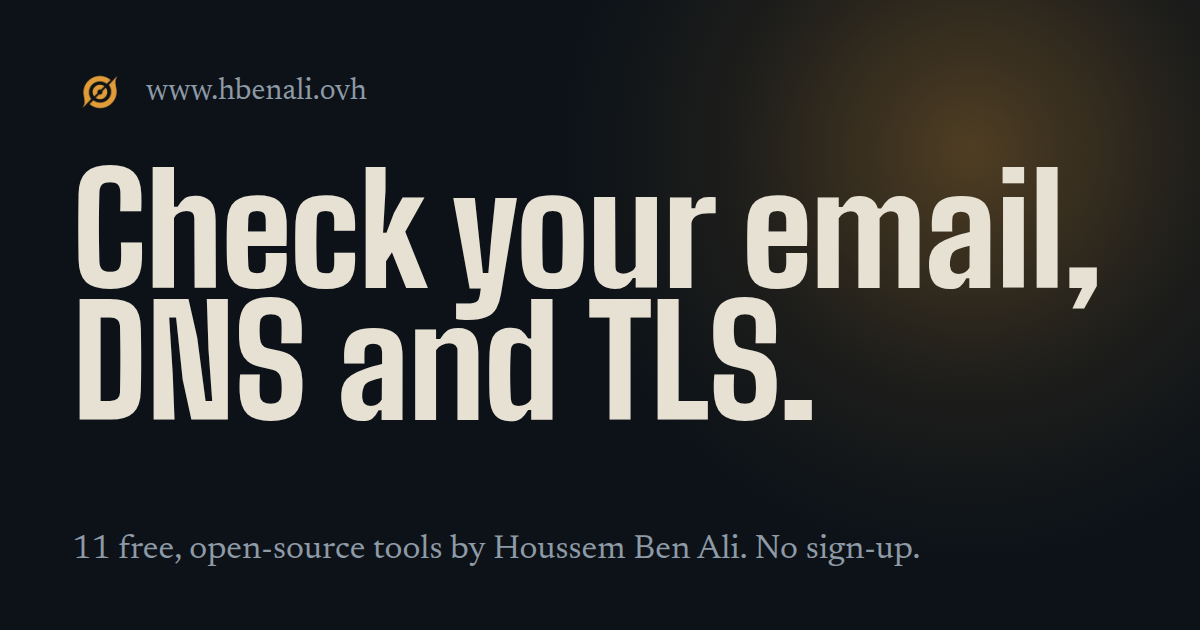
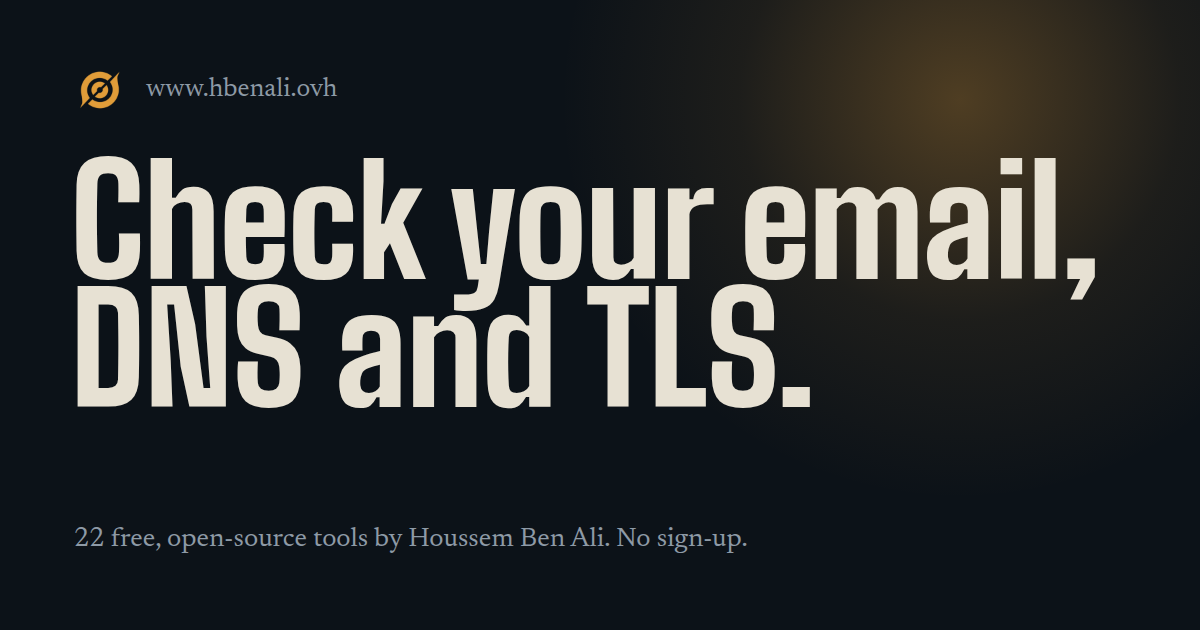
feat: list the ten new tools, 22 in total
email, mtasts, dane, headers, dns, delegation, propagation, ct, headers-sec and securitytxt are live. Add a card for each in the matching group and in llms.txt, bump the count from 12 to 22, and regenerate the social preview image with the new count.

Changed region(s): [[0.0617, 0.2413, 0.925, 0.6937], [0.0617, 0.8143, 0.7708, 0.9048], [0.0617, 0.0905, 0.3083, 0.181]]

diff --git a/index.html b/index.html
@@ -7,7 +7,7 @@
     <title>hbenali.ovh - Houssem Ben Ali | DevOps & SecOps Engineer · Open-Source Security Tools</title>
 
     <!-- SEO -->
-    <meta name="description" content="Houssem Ben Ali - DevOps & SecOps Engineer. Open-source security tools: CAA, DKIM, SPF, DMARC, BIMI, and IP inspection.">
+    <meta name="description" content="Houssem Ben Ali - DevOps & SecOps Engineer. Open-source security tools: MX, CAA, DKIM, SPF, DMARC, BIMI, DNS, DANE and IP inspection.">
     <meta name="keywords" content="DevOps, Open Source, Security, Email Authentication, CAA, DKIM, SPF, DMARC, BIMI, IP Inspector, Houssem Ben Ali">
     <meta name="author" content="Houssem Ben Ali">
 
@@ -29,21 +29,21 @@
     <!-- Open Graph -->
     <meta property="og:type" content="website">
     <meta property="og:title" content="hbenali.ovh - Houssem Ben Ali | DevOps & SecOps Engineer · Open-Source Security Tools">
-    <meta property="og:description" content="DevOps & SecOps Engineer. Open-source security tools: CAA, DKIM, SPF, DMARC, BIMI, and IP inspection.">
+    <meta property="og:description" content="DevOps & SecOps Engineer. Open-source security tools: MX, CAA, DKIM, SPF, DMARC, BIMI, DNS, DANE and IP inspection.">
     <meta property="og:url" content="https://www.hbenali.ovh/">
     <meta property="og:image" content="https://www.hbenali.ovh/og-image.png">
     <meta property="og:image:type" content="image/png">
     <meta property="og:image:width" content="1200">
     <meta property="og:image:height" content="630">
-    <meta property="og:image:alt" content="Houssem Ben Ali - DevOps &amp; SecOps Engineer. 12 free, open-source security tools for DNS, TLS and email authentication.">
+    <meta property="og:image:alt" content="Houssem Ben Ali - DevOps &amp; SecOps Engineer. 22 free, open-source security tools for DNS, TLS and email authentication.">
     <meta property="og:site_name" content="Houssem Ben Ali">
 
     <!-- Twitter Card -->
     <meta name="twitter:card" content="summary_large_image">
     <meta name="twitter:title" content="hbenali.ovh - Houssem Ben Ali | DevOps & SecOps Engineer · Open-Source Security Tools">
-    <meta name="twitter:description" content="DevOps & SecOps Engineer. Open-source security tools: CAA, DKIM, SPF, DMARC, BIMI, and IP inspection.">
+    <meta name="twitter:description" content="DevOps & SecOps Engineer. Open-source security tools: MX, CAA, DKIM, SPF, DMARC, BIMI, DNS, DANE and IP inspection.">
     <meta name="twitter:image" content="https://www.hbenali.ovh/og-image.png">
-    <meta name="twitter:image:alt" content="Houssem Ben Ali - DevOps &amp; SecOps Engineer. 12 free, open-source security tools for DNS, TLS and email authentication.">
+    <meta name="twitter:image:alt" content="Houssem Ben Ali - DevOps &amp; SecOps Engineer. 22 free, open-source security tools for DNS, TLS and email authentication.">
 
     <!-- Structured Data -->
     <script type="application/ld+json">
@@ -94,7 +94,7 @@
                 <span class="line"><span>Check your email,</span></span>
                 <span class="line"><span>DNS and TLS.</span></span>
             </h1>
-            <p class="lead">12 free, open-source tools to check your email authentication, DNS and TLS setup. No sign-up.</p>
+            <p class="lead">22 free, open-source tools to check your email authentication, DNS and TLS setup. No sign-up.</p>
             <p class="by">By Houssem Ben Ali, DevOps and SecOps engineer. Tunisia, France and remote.</p>
         </section>
 
@@ -108,7 +108,7 @@
                             <input type="search" id="toolFilter" placeholder="dmarc, tls, dns&hellip;" autocomplete="off" spellcheck="false" aria-controls="toolsList">
                             <kbd aria-hidden="true">/</kbd>
                         </div>
-                        <p class="filter-count" id="toolCount" role="status" aria-live="polite">12 tools</p>
+                        <p class="filter-count" id="toolCount" role="status" aria-live="polite">22 tools</p>
                     </div>
                 </div>
             </div>
@@ -145,6 +145,30 @@
                         <span class="tool-desc">MX Inspector &mdash; see where a domain's mail is routed and catch broken mail hosts.</span>
                         <span class="tool-meta">Checks: MX records, mail host resolution, null MX (inspector and generator). <i>mx, email-routing</i><span class="sr-only"> (opens in a new tab)</span></span>
                     </a>
+                    <a href="https://email.hbenali.ovh" class="tool" target="_blank" rel="noopener" data-tool>
+                        <span class="tool-name">email.hbenali.ovh<span class="pwa" title="Installable as an app">PWA</span></span>
+                        <span class="tool-status"><span class="dot" aria-hidden="true"></span>online</span>
+                        <span class="tool-desc">Email Health Audit &mdash; one-page grade for MX, SPF, DKIM, DMARC, BIMI and MTA-STS.</span>
+                        <span class="tool-meta">Checks: MX, SPF, DKIM, DMARC, BIMI, MTA-STS, DNSSEC (heuristic A to F grade). <i>email, audit</i><span class="sr-only"> (opens in a new tab)</span></span>
+                    </a>
+                    <a href="https://mtasts.hbenali.ovh" class="tool" target="_blank" rel="noopener" data-tool>
+                        <span class="tool-name">mtasts.hbenali.ovh<span class="pwa" title="Installable as an app">PWA</span></span>
+                        <span class="tool-status"><span class="dot" aria-hidden="true"></span>online</span>
+                        <span class="tool-desc">MTA-STS Checker &mdash; validate your TLS policy for inbound mail and generate the files.</span>
+                        <span class="tool-meta">Checks: MTA-STS and TLS-RPT records, policy file validation. <i>mta-sts, tls-rpt</i><span class="sr-only"> (opens in a new tab)</span></span>
+                    </a>
+                    <a href="https://dane.hbenali.ovh" class="tool" target="_blank" rel="noopener" data-tool>
+                        <span class="tool-name">dane.hbenali.ovh<span class="pwa" title="Installable as an app">PWA</span></span>
+                        <span class="tool-status"><span class="dot" aria-hidden="true"></span>online</span>
+                        <span class="tool-desc">DANE / TLSA Inspector &mdash; check TLSA records and match them to your certificate.</span>
+                        <span class="tool-meta">Checks: TLSA records, DNSSEC validation, certificate hash match. <i>dane, tlsa</i><span class="sr-only"> (opens in a new tab)</span></span>
+                    </a>
+                    <a href="https://headers.hbenali.ovh" class="tool" target="_blank" rel="noopener" data-tool>
+                        <span class="tool-name">headers.hbenali.ovh<span class="pwa" title="Installable as an app">PWA</span></span>
+                        <span class="tool-status"><span class="dot" aria-hidden="true"></span>online</span>
+                        <span class="tool-desc">Email Header Analyzer &mdash; trace a message hop by hop and read its authentication results, offline.</span>
+                        <span class="tool-meta">Checks: Received chain, SPF/DKIM/DMARC/ARC results, identity mismatches. <i>headers, forensics</i><span class="sr-only"> (opens in a new tab)</span></span>
+                    </a>
                 </div>
                 <div class="tool-group">
                     <h3>DNS &amp; certificates</h3>
@@ -172,6 +196,30 @@
                         <span class="tool-desc">RDAP Inspector &mdash; modern, structured domain/IP/ASN lookups replacing WHOIS.</span>
                         <span class="tool-meta">Checks: Domain, IP and ASN registration (RDAP). <i>rdap, whois</i><span class="sr-only"> (opens in a new tab)</span></span>
                     </a>
+                    <a href="https://dns.hbenali.ovh" class="tool" target="_blank" rel="noopener" data-tool>
+                        <span class="tool-name">dns.hbenali.ovh<span class="pwa" title="Installable as an app">PWA</span></span>
+                        <span class="tool-status"><span class="dot" aria-hidden="true"></span>online</span>
+                        <span class="tool-desc">DNS Lookup &mdash; any record type over DNS-over-HTTPS, with TTLs and DNSSEC status.</span>
+                        <span class="tool-meta">Checks: A, AAAA, MX, NS, TXT, SOA, CAA, SRV, DS, DNSKEY, TLSA and more. <i>dns, doh</i><span class="sr-only"> (opens in a new tab)</span></span>
+                    </a>
+                    <a href="https://delegation.hbenali.ovh" class="tool" target="_blank" rel="noopener" data-tool>
+                        <span class="tool-name">delegation.hbenali.ovh<span class="pwa" title="Installable as an app">PWA</span></span>
+                        <span class="tool-status"><span class="dot" aria-hidden="true"></span>online</span>
+                        <span class="tool-desc">Delegation Checker &mdash; nameserver diversity, SOA timers and DS records at a glance.</span>
+                        <span class="tool-meta">Checks: NS set, SOA sanity, DNSSEC delegation, DNS provider. <i>dns, nameservers</i><span class="sr-only"> (opens in a new tab)</span></span>
+                    </a>
+                    <a href="https://propagation.hbenali.ovh" class="tool" target="_blank" rel="noopener" data-tool>
+                        <span class="tool-name">propagation.hbenali.ovh<span class="pwa" title="Installable as an app">PWA</span></span>
+                        <span class="tool-status"><span class="dot" aria-hidden="true"></span>online</span>
+                        <span class="tool-desc">DNS Propagation Checker &mdash; compare answers from several public resolvers.</span>
+                        <span class="tool-meta">Checks: Same record through four DoH resolvers, expected-value check. <i>dns, propagation</i><span class="sr-only"> (opens in a new tab)</span></span>
+                    </a>
+                    <a href="https://ct.hbenali.ovh" class="tool" target="_blank" rel="noopener" data-tool>
+                        <span class="tool-name">ct.hbenali.ovh<span class="pwa" title="Installable as an app">PWA</span></span>
+                        <span class="tool-status"><span class="dot" aria-hidden="true"></span>online</span>
+                        <span class="tool-desc">Certificate Transparency Search &mdash; every certificate and subdomain logged for a domain.</span>
+                        <span class="tool-meta">Checks: CT logs via crt.sh and Cert Spotter, subdomain list, expiry flags. <i>ct, certs</i><span class="sr-only"> (opens in a new tab)</span></span>
+                    </a>
                 </div>
                 <div class="tool-group">
                     <h3>Network &amp; developer tools</h3>
@@ -192,6 +240,18 @@
                         <span class="tool-status"><span class="dot" aria-hidden="true"></span>online</span>
                         <span class="tool-desc">Frontail &mdash; stream and filter log files live in the browser.</span>
                         <span class="tool-meta">Checks: Live log streaming (demo). <i>logs, observability</i><span class="sr-only"> (opens in a new tab)</span></span>
+                    </a>
+                    <a href="https://headers-sec.hbenali.ovh" class="tool" target="_blank" rel="noopener" data-tool>
+                        <span class="tool-name">headers-sec.hbenali.ovh<span class="pwa" title="Installable as an app">PWA</span></span>
+                        <span class="tool-status"><span class="dot" aria-hidden="true"></span>online</span>
+                        <span class="tool-desc">Security Headers Grader &mdash; grade pasted HTTP headers and generate a hardened set.</span>
+                        <span class="tool-meta">Checks: CSP, HSTS, cookies, referrer and framing headers (heuristic grade). <i>http, hardening</i><span class="sr-only"> (opens in a new tab)</span></span>
+                    </a>
+                    <a href="https://securitytxt.hbenali.ovh" class="tool" target="_blank" rel="noopener" data-tool>
+                        <span class="tool-name">securitytxt.hbenali.ovh<span class="pwa" title="Installable as an app">PWA</span></span>
+                        <span class="tool-status"><span class="dot" aria-hidden="true"></span>online</span>
+                        <span class="tool-desc">security.txt Validator &mdash; check a file against RFC 9116 and generate a valid one.</span>
+                        <span class="tool-meta">Checks: Contact, Expires, URIs and PGP wrapper in security.txt. <i>security-txt, rfc9116</i><span class="sr-only"> (opens in a new tab)</span></span>
                     </a>
                 </div>
                 <p class="tool-empty" id="toolEmpty" hidden>No tool matches that search. Press <kbd>Esc</kbd> to clear it.</p>
